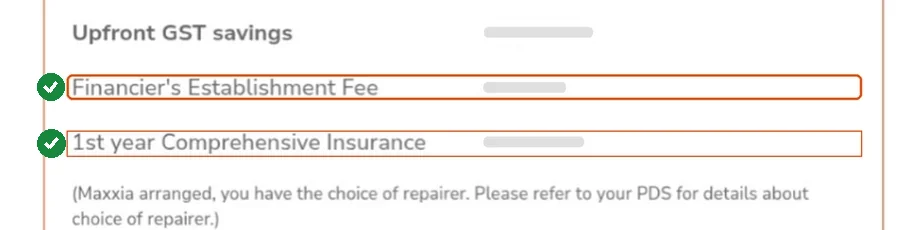
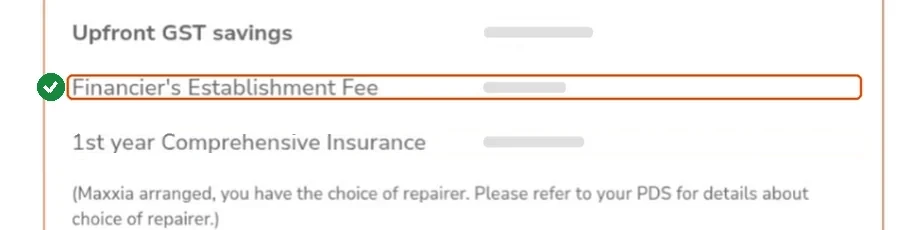
fix(provider-guide): Maxxia and Oly documentation-fee pictures tick only the establishment fee
The insurance line was also ticked, from before financed insurance had its own
question; the text says to enter only the establishment fee.

Claude-Session: https://claude.ai/code/session_01QHrdpEr46BkT861h4RYeay

Changed region(s): [[0.0311, 0.5478, 0.9644, 0.7]]

diff --git a/TO_REVIEW.md b/TO_REVIEW.md
@@ -52,9 +52,8 @@ The suggested order is from the review. Each item is small (S) or a few hours (M
   contact sheet didn't include opened pictures.
   Done 2026-11-14 at 500 px (Chrome's narrowest window), light and dark: all 24 screens, all 50
   pictures load. Found and fixed: Smart Leasing / MillarX callout said the tool fills the payment in
-  "below" after the amount moved up (82c101de). Open: Maxxia and Oly documentation-fee crops still
-  tick "1st year Comprehensive Insurance" although the text says to enter only the establishment
-  fee; the insurance "Show me" for both reuses the running-costs crop; Smart Leasing's
+  "below" after the amount moved up (82c101de). Maxxia and Oly documentation-fee crops ticked
+  "1st year Comprehensive Insurance" too; tick and box painted out (owner, 2026-11-14). Open: the insurance "Show me" for both reuses the running-costs crop; Smart Leasing's
   documentation-fee picture is a whole terms page, unreadable until tapped.
 - [ ] **Say "merge":** it will be a merge commit into `main`, not a squash, then a push. The site goes
   live in about 75 seconds.
